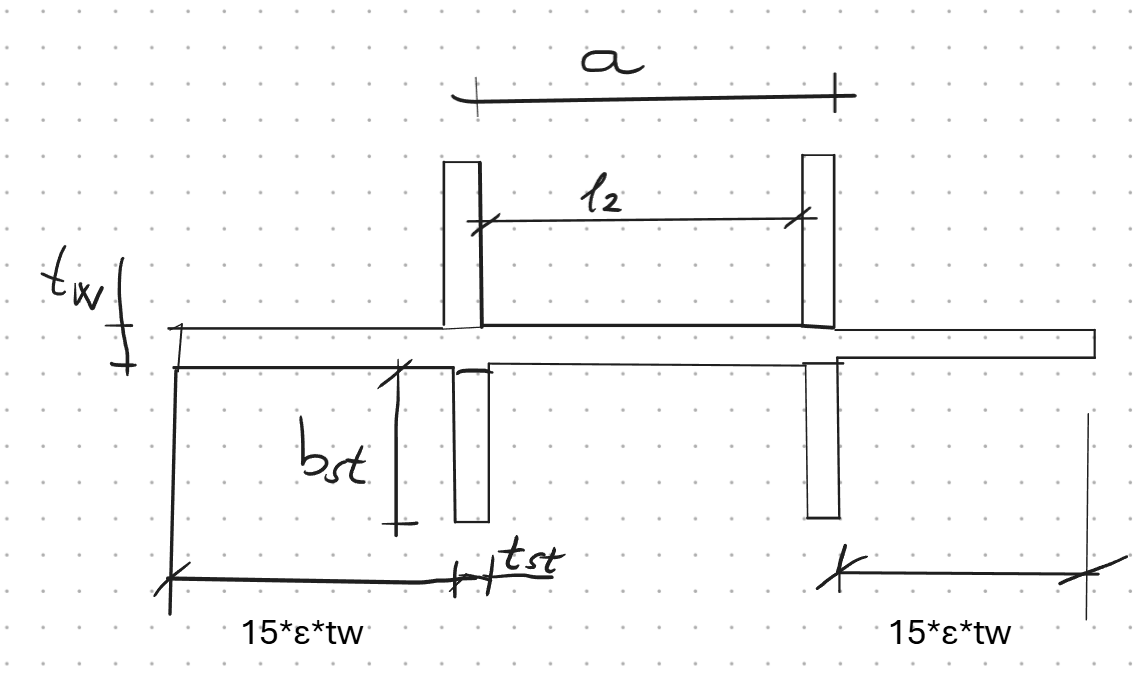
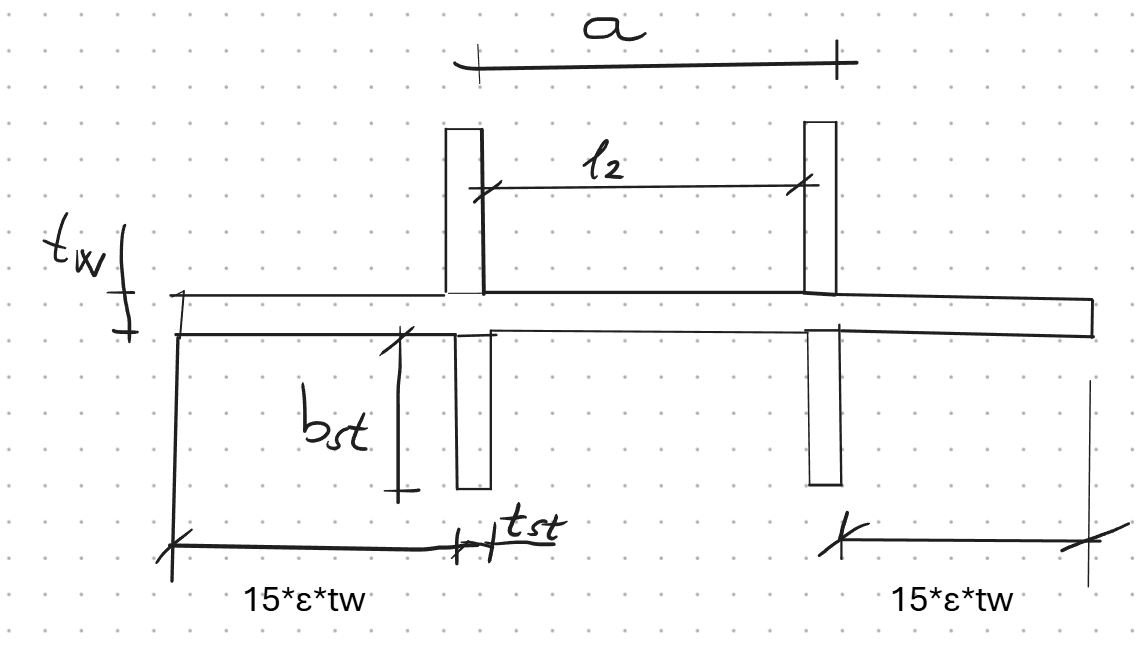
better calculation model for transversally stiffened web. automatic bst input when profile is selected

diff --git a/transversal_forces_stiffened_web/script.js b/transversal_forces_stiffened_web/script.js
@@ -147,6 +147,12 @@ function loadProfileData() {
     // Update calculated values
     document.getElementById('tw-calculated').textContent = currentProfile.tw.toFixed(1);
     
+    // Calculate and populate optimal stiffener width
+    const bf = currentProfile.b; // flange width
+    const tw = currentProfile.tw; // web thickness
+    const optimalBst = (bf - tw) / 2;
+    document.getElementById('bst').value = optimalBst.toFixed(1);
+    
     // Calculate and update hw
     calculateWebHeight();
   }
@@ -189,6 +195,39 @@ function calculateWebHeight() {
   }
   
   document.getElementById('hw-calculated').textContent = hw.toFixed(1);
+  
+  // Check stiffener width validation when profile changes
+  validateStiffenerWidth();
+}
+
+// Validate stiffener width against flange width
+function validateStiffenerWidth() {
+  const bstInput = document.getElementById('bst');
+  const bst = parseFloat(bstInput.value);
+  
+  if (!currentProfile || isNaN(bst)) {
+    // Reset validation if no profile or invalid input
+    bstInput.classList.remove('border-red-500', 'bg-red-900/20');
+    bstInput.classList.add('border-gray-500', 'bg-gray-600');
+    bstInput.removeAttribute('title');
+    return;
+  }
+  
+  const bf = currentProfile.b; // flange width
+  const tw = currentProfile.tw; // web thickness
+  const maxStiffenerWidth = (bf - tw) / 2;
+  
+  if (bst > maxStiffenerWidth) {
+    // Make input red and add warning
+    bstInput.classList.remove('border-gray-500', 'bg-gray-600');
+    bstInput.classList.add('border-red-500', 'bg-red-900/20');
+    bstInput.title = `Warning: Stiffener is wider than the flange and will stick outside of the profile. Maximum recommended width: ${maxStiffenerWidth.toFixed(1)} mm`;
+  } else {
+    // Reset to normal appearance
+    bstInput.classList.remove('border-red-500', 'bg-red-900/20');
+    bstInput.classList.add('border-gray-500', 'bg-gray-600');
+    bstInput.removeAttribute('title');
+  }
 }
 
 function calculateAndShow() {

diff --git a/transversal_forces_stiffened_web/index.html b/transversal_forces_stiffened_web/index.html
@@ -97,7 +97,7 @@
           
           <div class="flex items-center gap-4">
             <label for="bst" class="text-sm font-medium min-w-[120px] text-right">b<sub>st</sub> (mm):</label>
-            <input type="number" id="bst" value="100" step="any" required class="flex-1 px-3 py-2 bg-gray-600 text-white border border-gray-500 rounded-md focus:outline-none focus:ring focus:ring-blue-400">
+            <input type="number" id="bst" value="100" step="any" required onchange="validateStiffenerWidth()" oninput="validateStiffenerWidth()" class="flex-1 px-3 py-2 bg-gray-600 text-white border border-gray-500 rounded-md focus:outline-none focus:ring focus:ring-blue-400">
           </div>
           
           <div class="flex items-center gap-4">
